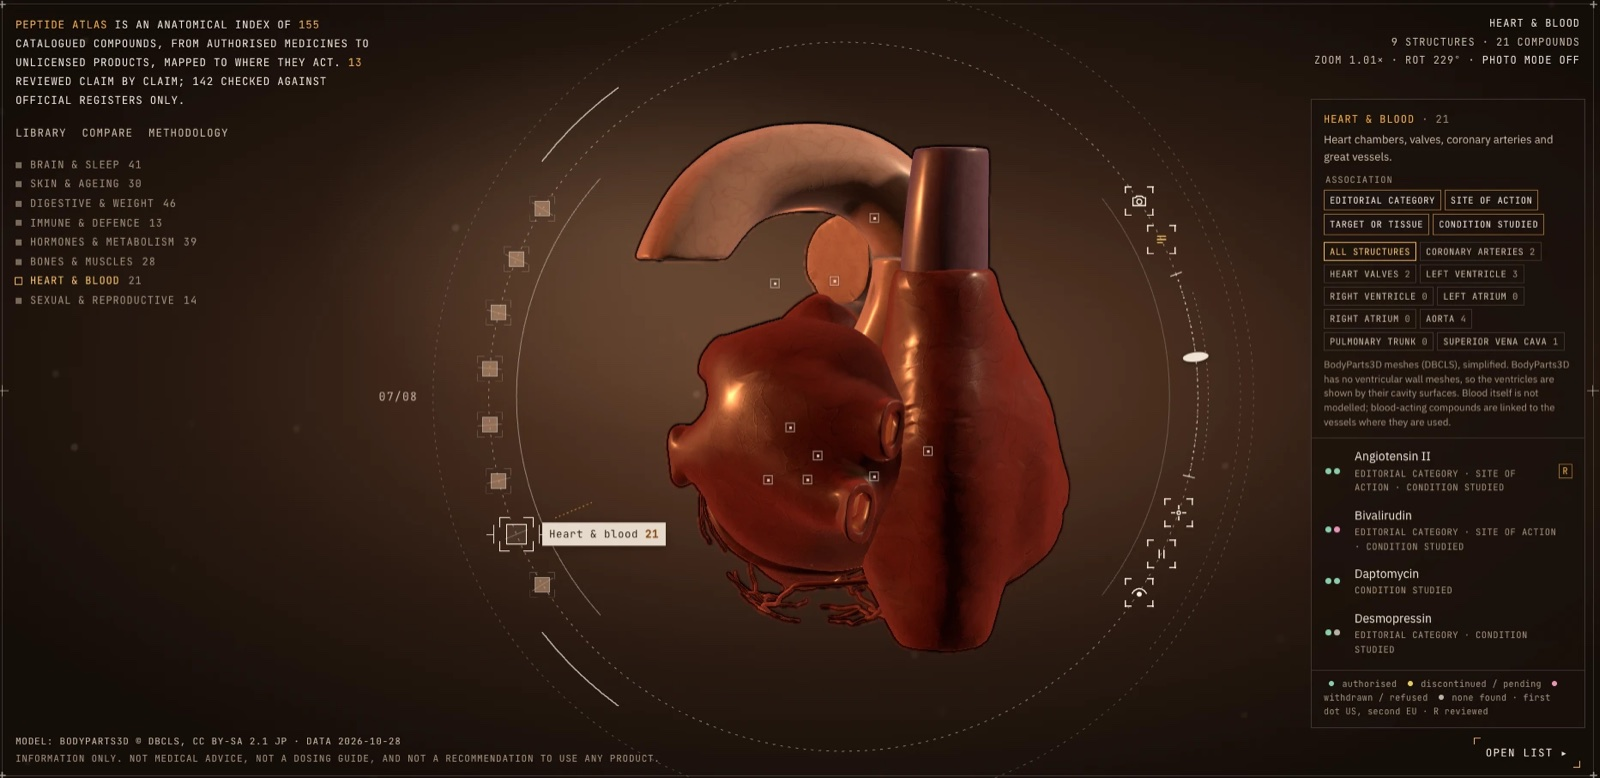
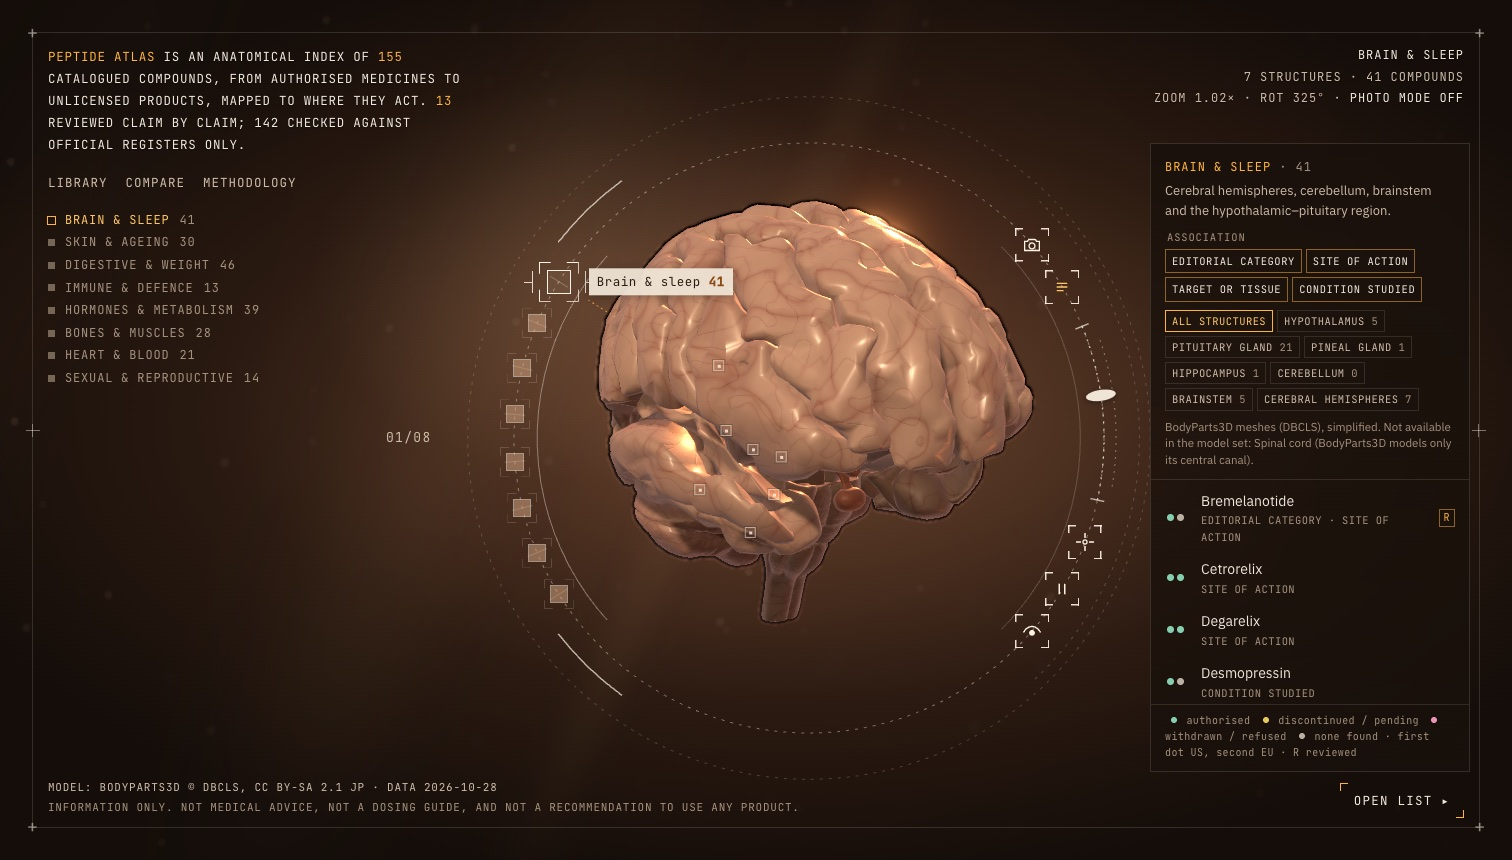
Lead Peptide Atlas with the brain view
Replace the heart screenshot with the explorer's opening brain view and
zoom the hero in on it, with darker edges so the app's own interface text
stays in the background.

diff --git a/css/styles.css b/css/styles.css
@@ -221,20 +221,20 @@ button { font: inherit; color: inherit; background: none; border: 0; padding: 0;
   background: #121212;
 }
 .hero__media { position: absolute; inset: 0; }
-.hero__media picture, .hero__media img { display: block; width: 100%; height: 100%; }
-.hero__media img {
+.hero__media picture, .hero__media img {
   object-fit: cover;
-  object-position: 62% 30%;
-  transform: scale(1.04);
+  object-position: 50% 47%;
+  transform-origin: 54% 44%;
+  transform: scale(1.32);
   animation: hero-drift 24s ease-in-out infinite alternate;
 }
-@keyframes hero-drift { to { transform: scale(1.1) translate(-1.2%, -1%); } }
+@keyframes hero-drift { to { transform: scale(1.4) translate(-1%, .6%); } }
 .hero__veil {
   position: absolute;
   inset: 0;
   background:
-    linear-gradient(to top, rgba(12,12,12,.94) 0%, rgba(12,12,12,.55) 38%, rgba(12,12,12,.12) 70%, rgba(12,12,12,.35) 100%),
-    linear-gradient(to right, rgba(12,12,12,.7) 0%, rgba(12,12,12,0) 55%);
+    linear-gradient(to top, rgba(12,12,12,.94) 0%, rgba(12,12,12,.55) 36%, rgba(12,12,12,.08) 64%, rgba(12,12,12,.75) 100%),
+    linear-gradient(to right, rgba(12,12,12,.75) 0%, rgba(12,12,12,0) 50%, rgba(12,12,12,.45) 100%);
 }
 .hero__tag {
   position: absolute;

diff --git a/js/data.js b/js/data.js
@@ -71,7 +71,7 @@ window.PROJECTS = [
     live: '',
     repo: '',
     image: { dark: 'images/peptide-atlas.jpg' },
-    imageAlt: 'Peptide Atlas heart and blood view: a 3D heart in the centre, body systems listed on the left and the compounds that act on the heart listed on the right',
+    imageAlt: 'Peptide Atlas brain and sleep view: a 3D brain in the centre, body systems listed on the left and the compounds that act on the brain listed on the right',
     tags: ['Health', '3D', 'Research']
   }
 ];
